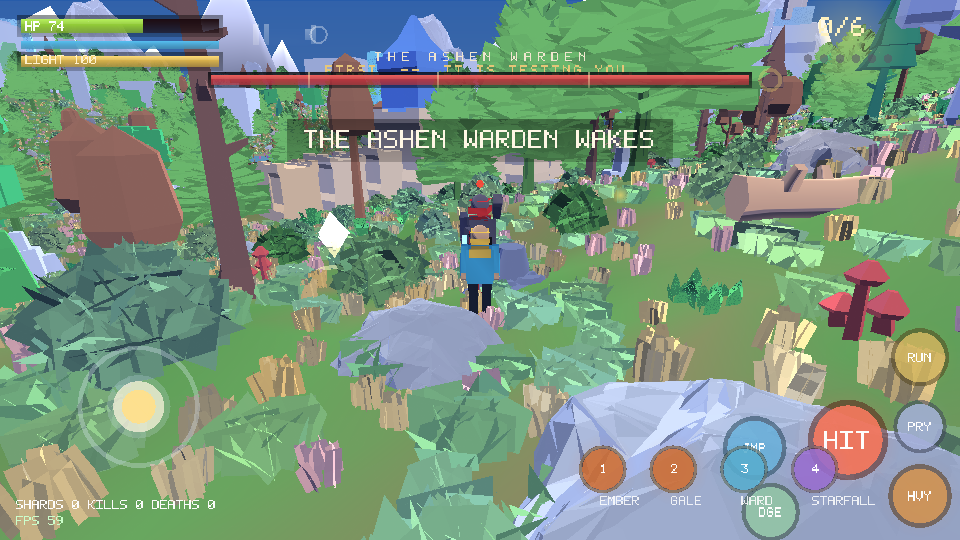
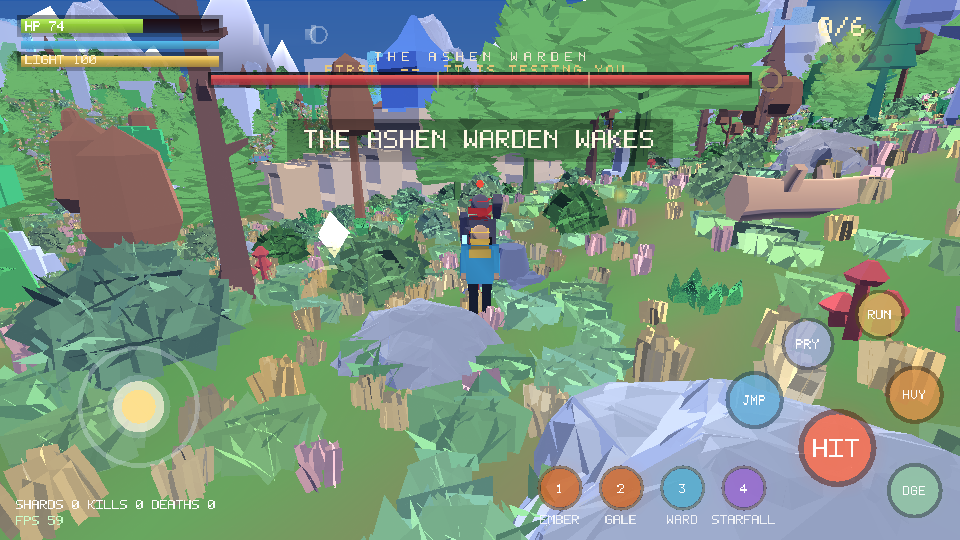
Lay out the action cluster so a thumb can only hit one thing
Six buttons and four spell slots in one corner is how a game ends up with a
button nobody can reach and two that share a thumb. The cluster is now two
arcs: ATTACK largest and innermost, the moves that need to be fast (heavy,
dodge) just outside it, and the situational ones (parry, jump, sprint) on an
outer ring where a deliberate reach is fine.

A geometry test asserts what the screenshot showed was wrong before: no two
buttons overlap, every button is on screen, ATTACK is the largest, and the
left-handed mirror keeps everything in bounds. The mirror now moves the whole
cluster rather than two buttons.

Spell labels are centred under their slots instead of offset by a hardcoded
amount, and the row is lifted clear of the screen edge.

Changed region(s): [[0.5625, 0.5333, 1.0, 1.0]]

diff --git a/app/src/main/java/com/laststar/game/ui/TouchControls.java b/app/src/main/java/com/laststar/game/ui/TouchControls.java
@@ -36,14 +36,24 @@ public final class TouchControls {
     public float lookSensitivity = 0.16f;
 
     // --- buttons -----------------------------------------------------
-    public final Button attack = new Button(636f, 330f, 33f);
-    /** The heavy: tap to swing, hold to charge. Smaller and inboard of ATTACK. */
-    public final Button heavy = new Button(690f, 372f, 24f);
-    /** Dodge, and the parry that shares its corner of the screen. */
-    public final Button dodge = new Button(578f, 384f, 22f);
-    public final Button parry = new Button(690f, 320f, 20f);
-    public final Button jump = new Button(566f, 336f, 24f);
-    public final Button sprint = new Button(690f, 268f, 22f);
+    /**
+     * The action cluster, in two arcs around the right thumb.
+     *
+     * <p>Six buttons plus four spell slots is more than a corner holds by
+     * accident, so the layout is deliberate: the attack sits inside the thumb's
+     * natural arc and is the largest, the heavyweight moves (heavy, dodge) sit
+     * just outside it, and the situational ones (parry, jump, sprint) form an
+     * outer ring where a deliberate reach is fine. Every pair is spaced so two
+     * buttons cannot be caught by one thumb.</p>
+     */
+    public final Button attack = new Button(628f, 336f, 32f);
+    /** The heavy: tap to swing, hold to charge. */
+    public final Button heavy = new Button(686f, 296f, 22f);
+    /** Dodge, the defensive move that has to be reachable fast. */
+    public final Button dodge = new Button(686f, 368f, 21f);
+    public final Button parry = new Button(606f, 258f, 20f);
+    public final Button jump = new Button(566f, 300f, 22f);
+    public final Button sprint = new Button(660f, 236f, 19f);
     public final Button pause = new Button(196f, 26f, 15f);
     public final Button sound = new Button(236f, 26f, 15f);
     /**
@@ -54,10 +64,10 @@ public final class TouchControls {
      * enough that a thumb cannot hit two at once.</p>
      */
     public final Button[] spell = {
-            new Button(452f, 352f, 18f),
-            new Button(505f, 352f, 18f),
-            new Button(558f, 352f, 18f),
-            new Button(611f, 352f, 18f)
+            new Button(420f, 366f, 17f),
+            new Button(466f, 366f, 17f),
+            new Button(512f, 366f, 17f),
+            new Button(558f, 366f, 17f)
     };
 
     private int attackPointer = -1;
@@ -383,21 +393,28 @@ public final class TouchControls {
     public void setLeftHanded(boolean leftHanded) {
         if (leftHanded) {
             lookSensitivity = 0.16f;
-            attack.x = 84f;
-            heavy.x = 30f;
-            dodge.x = 142f;
-            parry.x = 30f;
-            jump.x = 154f;
-            sprint.x = 30f;
+            // Mirror the whole cluster about the vertical centre line.
+            attack.x = DESIGN_W - 628f;
+            heavy.x = DESIGN_W - 686f;
+            dodge.x = DESIGN_W - 686f;
+            parry.x = DESIGN_W - 606f;
+            jump.x = DESIGN_W - 566f;
+            sprint.x = DESIGN_W - 660f;
+            for (int i = 0; i < spell.length; i++) {
+                spell[i].x = DESIGN_W - spell[i].x;
+            }
             pause.x = 524f;
             sound.x = 564f;
         } else {
-            attack.x = 636f;
-            heavy.x = 690f;
-            dodge.x = 578f;
-            parry.x = 690f;
+            attack.x = 628f;
+            heavy.x = 686f;
+            dodge.x = 686f;
+            parry.x = 606f;
             jump.x = 566f;
-            sprint.x = 690f;
+            sprint.x = 660f;
+            for (int i = 0; i < spell.length; i++) {
+                spell[i].x = 420f + i * 46f;
+            }
             pause.x = 196f;
             sound.x = 236f;
         }

diff --git a/desktop/HeadlessTest.java b/desktop/HeadlessTest.java
@@ -48,6 +48,7 @@ public final class HeadlessTest {
         testDifficulty();
         testWorldSimulation();
         testPlayerMovement();
+        testTouchLayout();
         testCombat();
         testShardCollectionAndVictory();
         testEnemyAi();
@@ -824,6 +825,65 @@ public final class HeadlessTest {
         float half = w.terrain.size * 0.5f;
         check(Math.abs(w.player.position.x) <= half && Math.abs(w.player.position.z) <= half,
                 "player cannot leave the world");
+    }
+
+    /**
+     * Checks the action cluster is physically usable.
+     *
+     * <p>Adding four buttons to a corner is how a game ends up with one that
+     * cannot be reached or two that share a thumb. Distance between centres
+     * against the sum of radii is the whole test.</p>
+     */
+    private static void testTouchLayout() {
+        section("touch layout");
+        com.laststar.game.ui.TouchControls c = new com.laststar.game.ui.TouchControls();
+        com.laststar.game.ui.TouchControls.Button[] all = {
+                c.attack, c.heavy, c.dodge, c.parry, c.jump, c.sprint,
+                c.spell[0], c.spell[1], c.spell[2], c.spell[3]
+        };
+        String[] names = {"ATTACK", "HEAVY", "DODGE", "PARRY", "JUMP", "SPRINT",
+                "SPELL1", "SPELL2", "SPELL3", "SPELL4"};
+        boolean disjoint = true;
+        String clash = "";
+        for (int i = 0; i < all.length; i++) {
+            for (int j = i + 1; j < all.length; j++) {
+                float dx = all[i].x - all[j].x;
+                float dy = all[i].y - all[j].y;
+                float d = (float) Math.sqrt(dx * dx + dy * dy);
+                if (d < all[i].radius + all[j].radius) {
+                    disjoint = false;
+                    clash = names[i] + "/" + names[j];
+                }
+            }
+        }
+        check(disjoint, "no two buttons overlap" + (disjoint ? "" : " (" + clash + ")"));
+        boolean inside = true;
+        for (int i = 0; i < all.length; i++) {
+            if (all[i].x - all[i].radius < 0f
+                    || all[i].x + all[i].radius > 720f
+                    || all[i].y - all[i].radius < 0f
+                    || all[i].y + all[i].radius > 405f) {
+                inside = false;
+            }
+        }
+        check(inside, "every button is on screen");
+        // The attack has to be the biggest thing in the corner.
+        boolean biggest = true;
+        for (int i = 1; i < all.length; i++) {
+            if (all[i].radius > c.attack.radius) {
+                biggest = false;
+            }
+        }
+        check(biggest, "ATTACK is the largest button");
+        // Mirroring must not push anything off screen.
+        c.setLeftHanded(true);
+        boolean mirroredInside = true;
+        for (int i = 0; i < all.length; i++) {
+            if (all[i].x - all[i].radius < 0f || all[i].x + all[i].radius > 720f) {
+                mirroredInside = false;
+            }
+        }
+        check(mirroredInside, "the left-handed layout stays on screen");
     }
 
     private static void testCombat() {

diff --git a/app/src/main/java/com/laststar/game/ui/Hud.java b/app/src/main/java/com/laststar/game/ui/Hud.java
@@ -236,10 +236,13 @@ public final class Hud {
                 b.circle(btn.x, btn.y, radius * 0.84f * left, 16, 0f, 0f, 0f, 0.55f);
             }
 
-            b.text((i + 1) + "", btn.x - 2f, btn.y - 4f, 1, 1f, 1f, 1f,
+            // The slot number is centred in the disc; the name sits under it,
+            // centred too, so a moved slot never leaves the two out of step.
+            b.textCentred((i + 1) + "", btn.x, btn.y - 3f, 1, 1f, 1f, 1f,
                     ready ? 0.95f : 0.45f, font);
-            b.text(shortName(spell.def.name), btn.x - 2f, btn.y + radius + 2f, 1,
-                    1f, 1f, 1f, 0.62f, font);
+            String label = shortName(spell.def.name);
+            b.textCentred(label, btn.x, btn.y + radius + 3f, 1, 1f, 1f, 1f,
+                    0.62f, font);
             if (spell.level > 1) {
                 b.text("L" + spell.level, btn.x + radius - 3f,
                         btn.y - radius - 2f, 1, 1f, 0.92f, 0.70f, 0.85f, font);
